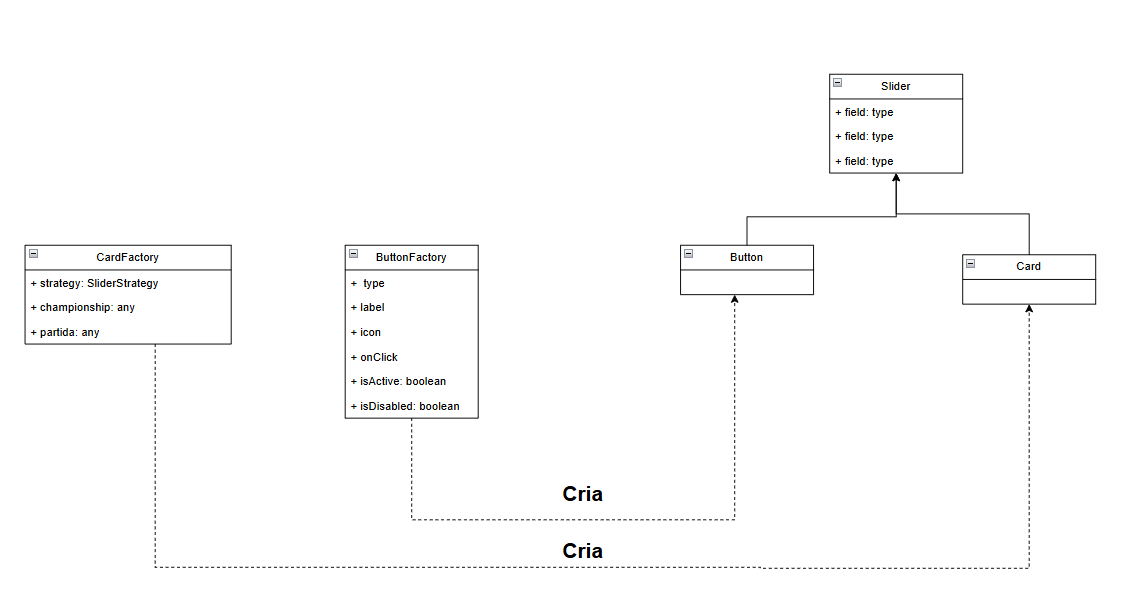
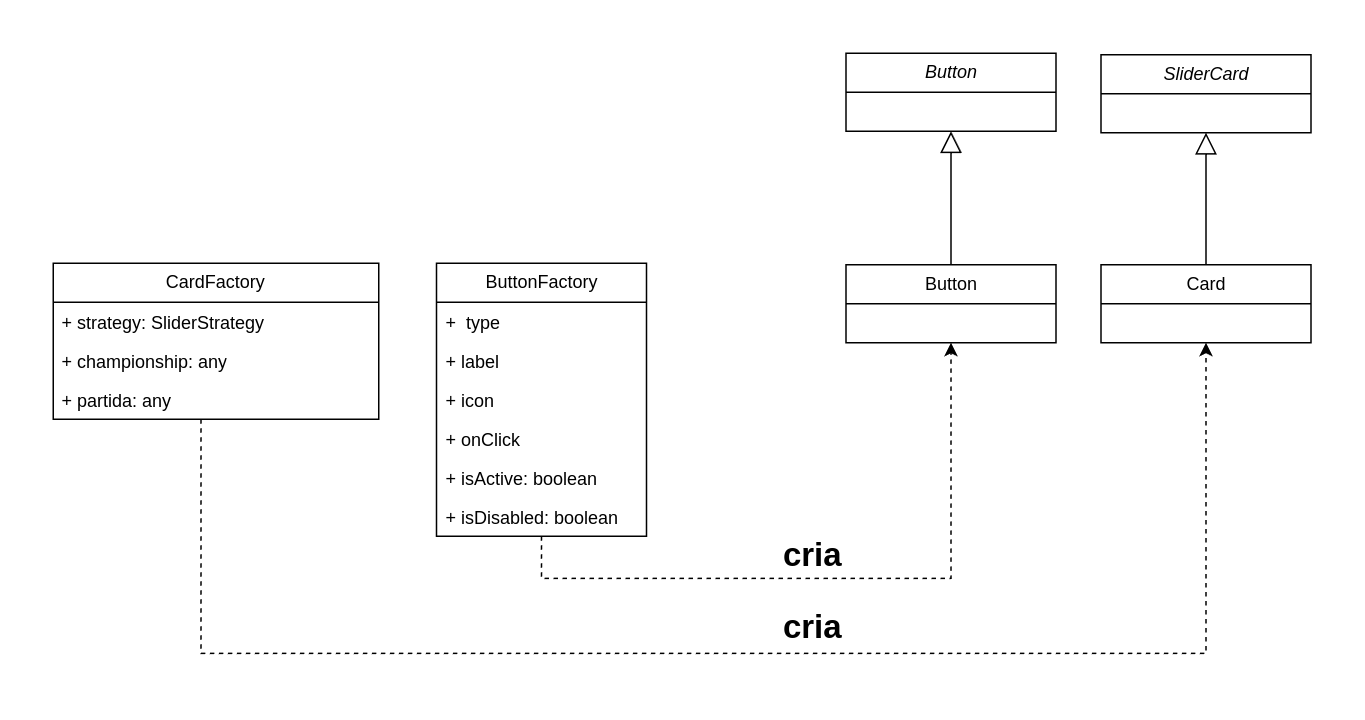
Docs(GoFs): Corrigindo diagrama e explicações implementações

diff --git a/docs/PadroesDeProjeto/3.4.ParticipacoesPadroes.md b/docs/PadroesDeProjeto/3.4.ParticipacoesPadroes.md
@@ -4,55 +4,58 @@ Breve relato sobre as participações/contribuições de cada membro à entrega.
 
 ## Padrão GoF Criacional
 
-| Nome | Descrição | Qualidade | Link |
-|-----|---|---|--|
-|Artur Jackson | Implementação do metódo Factory na aplicação, assim como documentação do metódo | Excelente | [Link-1](https://github.com/UnBArqDsw2024-2/2024.2_G4_TorneioPro_Entrega_03/commit/7ac8a4c7e4cfe569da0761486fe29971e128ca1d) [Link-2](https://github.com/UnBArqDsw2024-2/2024.2_G4_TorneioPro_Entrega_03/commit/90bb5dd010d2e9a2167dea328229f17e05eb4d66) [Link-3](https://github.com/UnBArqDsw2024-2/2024.2_G4_TorneioPro_Entrega_03/commit/dc871436714579992acc0452cb619cc99b5fdf15)|
-|Gustavo França | Implementação do metódo Factory na aplicação, assim como documentação do metódo  | Excelente | [Link](https://github.com/UnBArqDsw2024-2/2024.2_G4_TorneioPro_Entrega_03/commit/7ac8a4c7e4cfe569da0761486fe29971e128ca1d)|
-|Harryson C Martins | Implementação do metódo Factory na aplicação, assim como documentação do metódo | Boa | [Link](https://github.com/UnBArqDsw2024-2/2024.2_G4_TorneioPro_Entrega_03/commit/7ac8a4c7e4cfe569da0761486fe29971e128ca1d)|
-|Yan Werlley | Implementação do metódo Factory na aplicação, assim como documentação do metódo | Excelente | [Link-1](https://github.com/UnBArqDsw2024-2/2024.2_G4_TorneioPro_Entrega_03/commit/7ac8a4c7e4cfe569da0761486fe29971e128ca1d) | [Link-2](https://github.com/UnBArqDsw2024-2/2024.2_G4_TorneioPro_Entrega_03/commit/dc871436714579992acc0452cb619cc99b5fdf15)|
-|Yan Luca| Implementação do metódo Factory na aplicação, assim como documentação do metódo | Boa | [Link](https://github.com/UnBArqDsw2024-2/2024.2_G4_TorneioPro_Entrega_03/commit/7ac8a4c7e4cfe569da0761486fe29971e128ca1d)|
-|Italo Bruno |Participação do diagrama factory e builder e suas implementações | Boa |[Link](https://github.com/UnBArqDsw2024-2/2024.2_G4_TorneioPro_Entrega_03/commit/a00482d82c55d09a24fd365d7ba532c026a5ee59) [Link](https://github.com/UnBArqDsw2024-2/2024.2_G4_TorneioPro_Entrega_03/commit/94d6500e474030b9b20da1c6cc313cf7167437df) [Link](https://github.com/UnBArqDsw2024-2/2024.2_G4_TorneioPro_Entrega_03/commit/0bfa61f6ea300d068c1acbabd2c41c8d3e96d945) [Link](https://github.com/UnBArqDsw2024-2/2024.2_G4_TorneioPro_Entrega_03/commit/cb41a2802ccc53e98fa6bafcf9963236d3b550b5) |
-|Christian |Participação do diagrama factory e implementação do Builder | Excelente | [Link](https://github.com/UnBArqDsw2024-2/2024.2_G4_TorneioPro_Entrega_03/pull/21/commits/9768041a82e62e59f89f84dd105481a4b9b9c18c), [Link](https://github.com/UnBArqDsw2024-2/2024.2_G4_TorneioPro_Entrega_03/pull/21/commits/94d6500e474030b9b20da1c6cc313cf7167437df), [Link](https://github.com/UnBArqDsw2024-2/2024.2_G4_TorneioPro_Entrega_03/pull/21/commits/a00482d82c55d09a24fd365d7ba532c026a5ee59) , [Link](https://github.com/UnBArqDsw2024-2/2024.2_G4_TorneioPro_Entrega_03/pull/18/commits/a507ad7d1a2de822f226bf8ae4b47b9439571ac6)|
-|Flávio Melo |Participação do diagrama factory e builder e suas implementações | Excelente |[Link](https://github.com/UnBArqDsw2024-2/2024.2_G4_TorneioPro_Entrega_03/commit/a00482d82c55d09a24fd365d7ba532c026a5ee59) [Link](https://github.com/UnBArqDsw2024-2/2024.2_G4_TorneioPro_Entrega_03/commit/94d6500e474030b9b20da1c6cc313cf7167437df) [Link](https://github.com/UnBArqDsw2024-2/2024.2_G4_TorneioPro_Entrega_03/commit/0bfa61f6ea300d068c1acbabd2c41c8d3e96d945) [Link](https://github.com/UnBArqDsw2024-2/2024.2_G4_TorneioPro_Entrega_03/pull/18/commits/a507ad7d1a2de822f226bf8ae4b47b9439571ac6) |
+| Nome               | Descrição                                                                       | Qualidade | Link                                                                                                                                                                                                                                                                                                                                                                                                                                                                                                                                                |
+|--------------------|---------------------------------------------------------------------------------|-----------|-----------------------------------------------------------------------------------------------------------------------------------------------------------------------------------------------------------------------------------------------------------------------------------------------------------------------------------------------------------------------------------------------------------------------------------------------------------------------------------------------------------------------------------------------------|
+| Artur Jackson      | Implementação do metódo Factory na aplicação, assim como documentação do metódo | Excelente | [Link-1](https://github.com/UnBArqDsw2024-2/2024.2_G4_TorneioPro_Entrega_03/commit/7ac8a4c7e4cfe569da0761486fe29971e128ca1d) [Link-2](https://github.com/UnBArqDsw2024-2/2024.2_G4_TorneioPro_Entrega_03/commit/90bb5dd010d2e9a2167dea328229f17e05eb4d66) [Link-3](https://github.com/UnBArqDsw2024-2/2024.2_G4_TorneioPro_Entrega_03/commit/dc871436714579992acc0452cb619cc99b5fdf15)                                                                                                                                                              |
+| Gustavo França     | Implementação do metódo Factory na aplicação, assim como documentação do metódo | Excelente | [Link](https://github.com/UnBArqDsw2024-2/2024.2_G4_TorneioPro_Entrega_03/commit/7ac8a4c7e4cfe569da0761486fe29971e128ca1d)                                                                                                                                                                                                                                                                                                                                                                                                                          |
+| Harryson C Martins | Implementação do metódo Factory na aplicação, assim como documentação do metódo | Boa       | [Link](https://github.com/UnBArqDsw2024-2/2024.2_G4_TorneioPro_Entrega_03/commit/7ac8a4c7e4cfe569da0761486fe29971e128ca1d)                                                                                                                                                                                                                                                                                                                                                                                                                          |
+| Yan Werlley        | Implementação do metódo Factory na aplicação, assim como documentação do metódo | Excelente | [Link-1](https://github.com/UnBArqDsw2024-2/2024.2_G4_TorneioPro_Entrega_03/commit/7ac8a4c7e4cfe569da0761486fe29971e128ca1d)                                                                                                                                                                                                                                                                                                                                                                                                                        | [Link-2](https://github.com/UnBArqDsw2024-2/2024.2_G4_TorneioPro_Entrega_03/commit/dc871436714579992acc0452cb619cc99b5fdf15)|
+| Yan Luca           | Implementação do metódo Factory na aplicação, assim como documentação do metódo | Boa       | [Link](https://github.com/UnBArqDsw2024-2/2024.2_G4_TorneioPro_Entrega_03/commit/7ac8a4c7e4cfe569da0761486fe29971e128ca1d)                                                                                                                                                                                                                                                                                                                                                                                                                          |
+| Italo Bruno        | Participação do diagrama factory e builder e suas implementações                | Excelente | [Link](https://github.com/UnBArqDsw2024-2/2024.2_G4_TorneioPro_Entrega_03/commit/a00482d82c55d09a24fd365d7ba532c026a5ee59) [Link](https://github.com/UnBArqDsw2024-2/2024.2_G4_TorneioPro_Entrega_03/commit/94d6500e474030b9b20da1c6cc313cf7167437df) [Link](https://github.com/UnBArqDsw2024-2/2024.2_G4_TorneioPro_Entrega_03/commit/0bfa61f6ea300d068c1acbabd2c41c8d3e96d945) [Link](https://github.com/UnBArqDsw2024-2/2024.2_G4_TorneioPro_Entrega_03/commit/cb41a2802ccc53e98fa6bafcf9963236d3b550b5)                                         |
+| Christian          | Participação do diagrama factory e implementação do Builder                     | Excelente | [Link](https://github.com/UnBArqDsw2024-2/2024.2_G4_TorneioPro_Entrega_03/pull/21/commits/9768041a82e62e59f89f84dd105481a4b9b9c18c), [Link](https://github.com/UnBArqDsw2024-2/2024.2_G4_TorneioPro_Entrega_03/pull/21/commits/94d6500e474030b9b20da1c6cc313cf7167437df), [Link](https://github.com/UnBArqDsw2024-2/2024.2_G4_TorneioPro_Entrega_03/pull/21/commits/a00482d82c55d09a24fd365d7ba532c026a5ee59) , [Link](https://github.com/UnBArqDsw2024-2/2024.2_G4_TorneioPro_Entrega_03/pull/18/commits/a507ad7d1a2de822f226bf8ae4b47b9439571ac6) |
+| Flávio Melo        | Participação do diagrama factory e builder e suas implementações                | Excelente | [Link](https://github.com/UnBArqDsw2024-2/2024.2_G4_TorneioPro_Entrega_03/commit/a00482d82c55d09a24fd365d7ba532c026a5ee59) [Link](https://github.com/UnBArqDsw2024-2/2024.2_G4_TorneioPro_Entrega_03/commit/94d6500e474030b9b20da1c6cc313cf7167437df) [Link](https://github.com/UnBArqDsw2024-2/2024.2_G4_TorneioPro_Entrega_03/commit/0bfa61f6ea300d068c1acbabd2c41c8d3e96d945) [Link](https://github.com/UnBArqDsw2024-2/2024.2_G4_TorneioPro_Entrega_03/pull/18/commits/a507ad7d1a2de822f226bf8ae4b47b9439571ac6)                                |
+| Fabrício           | Participação no diagrama Factory Method do Frontend, e sua implementação        | Excelente | [Link-1](https://github.com/UnBArqDsw2024-2/2024.2_G4_TorneioPro_Entrega_03/pull/21/commits/94d6500e474030b9b20da1c6cc313cf7167437df), [Link-2](https://github.com/UnBArqDsw2024-2/2024.2_G4_TorneioPro_Entrega_03/pull/21/commits/9768041a82e62e59f89f84dd105481a4b9b9c18c), [Link-3](https://github.com/UnBArqDsw2024-2/2024.2_G4_TorneioPro_Entrega_03/pull/1), [Link-4](https://github.com/UnBArqDsw2024-2/2024.2_G4_TorneioPro_Entrega_03/commits/Dev-Front/?author=FabricioDeQueiroz)                                                         |
 
 
 
 
 ## Padrão GoF Estrutural
 
-| Nome | Descrição | Qualidade | Link |
-|------|-----------|-----------|------|
-|Artur Jackson | Implementação do metódo Factory na aplicação, assim como documentação do metódo | Excelente | [Link-1](https://github.com/UnBArqDsw2024-2/2024.2_G4_TorneioPro_Entrega_03/commit/f481bd05ca8aee207c65cc134dc6762dd6763188) [Link-2](https://github.com/UnBArqDsw2024-2/2024.2_G4_TorneioPro_Entrega_03/commit/4f9d8c44e47f7e9e5015f624809c1e8b988d3e3d) [Link-3](https://github.com/UnBArqDsw2024-2/2024.2_G4_TorneioPro_Entrega_03/commit/f078ef66eda9f7edd89bd869382e400d151ad30d)|
-|Gustavo França | Implementação do metódo Facade na aplicação, assim como documentação do metódo  | Excelente | [Link](https://github.com/UnBArqDsw2024-2/2024.2_G4_TorneioPro_Entrega_03/commit/f481bd05ca8aee207c65cc134dc6762dd6763188)|
-|Harryson C Martins | Implementação do metódo Facade na aplicação, assim como documentação do metódo | Boa | [Link](https://github.com/UnBArqDsw2024-2/2024.2_G4_TorneioPro_Entrega_03/commit/f481bd05ca8aee207c65cc134dc6762dd6763188)|
-|Yan Werlley | Implementação do metódo Facade na aplicação e na criação do seu diagrama de classe | Excelente | [Link-1](https://github.com/UnBArqDsw2024-2/2024.2_G4_TorneioPro_Entrega_03/commit/f481bd05ca8aee207c65cc134dc6762dd6763188) | [Link-2](https://github.com/UnBArqDsw2024-2/2024.2_G4_TorneioPro_Entrega_03/commit/f078ef66eda9f7edd89bd869382e400d151ad30d)|
-|Yan Luca| Implementação do metódo Facade na aplicação, assim como documentação do metódo | Boa | [Link](https://github.com/UnBArqDsw2024-2/2024.2_G4_TorneioPro_Entrega_03/commit/f481bd05ca8aee207c65cc134dc6762dd6763188)|
-|Italo Bruno |Participação do diagrama adapter e sua implementação | Boa |[Link](https://github.com/UnBArqDsw2024-2/2024.2_G4_TorneioPro_Entrega_03/commit/a00482d82c55d09a24fd365d7ba532c026a5ee59) [Link](https://github.com/UnBArqDsw2024-2/2024.2_G4_TorneioPro_Entrega_03/commit/94d6500e474030b9b20da1c6cc313cf7167437df) |
-|Christian |Participação do diagrama adapter  | Excelente | [Link](https://github.com/UnBArqDsw2024-2/2024.2_G4_TorneioPro_Entrega_03/pull/21/commits/9768041a82e62e59f89f84dd105481a4b9b9c18c), [Link](https://github.com/UnBArqDsw2024-2/2024.2_G4_TorneioPro_Entrega_03/pull/21/commits/94d6500e474030b9b20da1c6cc313cf7167437df), [Link](https://github.com/UnBArqDsw2024-2/2024.2_G4_TorneioPro_Entrega_03/pull/21/commits/a00482d82c55d09a24fd365d7ba532c026a5ee59) |
-|Flávio Melo |Participação do diagrama adapter e sua implementação | Excelente |[Link](https://github.com/UnBArqDsw2024-2/2024.2_G4_TorneioPro_Entrega_03/pull/21/commits/9768041a82e62e59f89f84dd105481a4b9b9c18c), [Link](https://github.com/UnBArqDsw2024-2/2024.2_G4_TorneioPro_Entrega_03/pull/21/commits/94d6500e474030b9b20da1c6cc313cf7167437df), [Link](https://github.com/UnBArqDsw2024-2/2024.2_G4_TorneioPro_Entrega_03/pull/21/commits/a00482d82c55d09a24fd365d7ba532c026a5ee59) |
+| Nome | Descrição                                                                          | Qualidade | Link                                                                                                                                                                                                                                                                                                                                                                                                                                                                                                                                                                                                                              |
+|------|------------------------------------------------------------------------------------|-----------|-----------------------------------------------------------------------------------------------------------------------------------------------------------------------------------------------------------------------------------------------------------------------------------------------------------------------------------------------------------------------------------------------------------------------------------------------------------------------------------------------------------------------------------------------------------------------------------------------------------------------------------|
+|Artur Jackson | Implementação do metódo Factory na aplicação, assim como documentação do metódo    | Excelente | [Link-1](https://github.com/UnBArqDsw2024-2/2024.2_G4_TorneioPro_Entrega_03/commit/f481bd05ca8aee207c65cc134dc6762dd6763188) [Link-2](https://github.com/UnBArqDsw2024-2/2024.2_G4_TorneioPro_Entrega_03/commit/4f9d8c44e47f7e9e5015f624809c1e8b988d3e3d) [Link-3](https://github.com/UnBArqDsw2024-2/2024.2_G4_TorneioPro_Entrega_03/commit/f078ef66eda9f7edd89bd869382e400d151ad30d)                                                                                                                                                                                                                                            |
+|Gustavo França | Implementação do metódo Facade na aplicação, assim como documentação do metódo     | Excelente | [Link](https://github.com/UnBArqDsw2024-2/2024.2_G4_TorneioPro_Entrega_03/commit/f481bd05ca8aee207c65cc134dc6762dd6763188)                                                                                                                                                                                                                                                                                                                                                                                                                                                                                                        |
+|Harryson C Martins | Implementação do metódo Facade na aplicação, assim como documentação do metódo     | Boa | [Link](https://github.com/UnBArqDsw2024-2/2024.2_G4_TorneioPro_Entrega_03/commit/f481bd05ca8aee207c65cc134dc6762dd6763188)                                                                                                                                                                                                                                                                                                                                                                                                                                                                                                        |
+|Yan Werlley | Implementação do metódo Facade na aplicação e na criação do seu diagrama de classe | Excelente | [Link-1](https://github.com/UnBArqDsw2024-2/2024.2_G4_TorneioPro_Entrega_03/commit/f481bd05ca8aee207c65cc134dc6762dd6763188)                                                                                                                                                                                                                                                                                                                                                                                                                                                                                                      | [Link-2](https://github.com/UnBArqDsw2024-2/2024.2_G4_TorneioPro_Entrega_03/commit/f078ef66eda9f7edd89bd869382e400d151ad30d)|
+|Yan Luca| Implementação do metódo Facade na aplicação, assim como documentação do metódo     | Boa | [Link](https://github.com/UnBArqDsw2024-2/2024.2_G4_TorneioPro_Entrega_03/commit/f481bd05ca8aee207c65cc134dc6762dd6763188)                                                                                                                                                                                                                                                                                                                                                                                                                                                                                                        |
+|Italo Bruno | Participação do diagrama adapter e sua implementação                               | Excelente | [Link](https://github.com/UnBArqDsw2024-2/2024.2_G4_TorneioPro_Entrega_03/commit/a00482d82c55d09a24fd365d7ba532c026a5ee59) [Link](https://github.com/UnBArqDsw2024-2/2024.2_G4_TorneioPro_Entrega_03/commit/94d6500e474030b9b20da1c6cc313cf7167437df)                                                                                                                                                                                                                                                                                                                                                                             |
+|Christian | Participação do diagrama adapter                                                   | Excelente | [Link](https://github.com/UnBArqDsw2024-2/2024.2_G4_TorneioPro_Entrega_03/pull/21/commits/9768041a82e62e59f89f84dd105481a4b9b9c18c), [Link](https://github.com/UnBArqDsw2024-2/2024.2_G4_TorneioPro_Entrega_03/pull/21/commits/94d6500e474030b9b20da1c6cc313cf7167437df), [Link](https://github.com/UnBArqDsw2024-2/2024.2_G4_TorneioPro_Entrega_03/pull/21/commits/a00482d82c55d09a24fd365d7ba532c026a5ee59)                                                                                                                                                                                                                     |
+|Flávio Melo | Participação do diagrama adapter e sua implementação                               | Excelente | [Link](https://github.com/UnBArqDsw2024-2/2024.2_G4_TorneioPro_Entrega_03/pull/21/commits/9768041a82e62e59f89f84dd105481a4b9b9c18c), [Link](https://github.com/UnBArqDsw2024-2/2024.2_G4_TorneioPro_Entrega_03/pull/21/commits/94d6500e474030b9b20da1c6cc313cf7167437df), [Link](https://github.com/UnBArqDsw2024-2/2024.2_G4_TorneioPro_Entrega_03/pull/21/commits/a00482d82c55d09a24fd365d7ba532c026a5ee59)                                                                                                                                                                                                                     |
+| Fabrício           | Participação no diagrama Adapter do Frontend, e sua implementação                   | Excelente | [Link-1](https://github.com/UnBArqDsw2024-2/2024.2_G4_TorneioPro_Entrega_03/pull/21/commits/94d6500e474030b9b20da1c6cc313cf7167437df), [Link-2](https://github.com/UnBArqDsw2024-2/2024.2_G4_TorneioPro_Entrega_03/pull/21/commits/9768041a82e62e59f89f84dd105481a4b9b9c18c), [Link-3](https://github.com/UnBArqDsw2024-2/2024.2_G4_TorneioPro_Entrega_03/pull/1), [Link-4](https://github.com/UnBArqDsw2024-2/2024.2_G4_TorneioPro_Entrega_03/pull/20/commits/f995e2e4497ee77c5fad5dd6c87880d93591cfcf) [Link-5](https://github.com/UnBArqDsw2024-2/2024.2_G4_TorneioPro_Entrega_03/commits/Dev-Front/?author=FabricioDeQueiroz) |
 
 
 
 ## Padrão GoF Comportamental
 
-| Nome | Descrição | Qualidade | Link |
-|------|-----------|-----------|------|
-|Artur Jackson | Implementação do metódo Factory na aplicação, assim como documentação do metódo | Excelente | [Link-1](https://github.com/UnBArqDsw2024-2/2024.2_G4_TorneioPro_Entrega_03/commit/580542017ef5d71b58ae23ed38395ddb6bdeefd9) [Link-2](https://github.com/UnBArqDsw2024-2/2024.2_G4_TorneioPro_Entrega_03/commit/f9d846194837cfc3b38dc56281da173ac955470c) [Link-3](https://github.com/UnBArqDsw2024-2/2024.2_G4_TorneioPro_Entrega_03/commit/f9d846194837cfc3b38dc56281da173ac955470c)|
-|Gustavo França | Implementação do metódo Strategy na aplicação, assim como documentação do metódo  | Excelente | [Link](https://github.com/UnBArqDsw2024-2/2024.2_G4_TorneioPro_Entrega_03/commit/580542017ef5d71b58ae23ed38395ddb6bdeefd9)|
-|Harryson C Martins | Implementação do metódo Strategy na aplicação, assim como documentação do metódo | Boa | [Link](https://github.com/UnBArqDsw2024-2/2024.2_G4_TorneioPro_Entrega_03/commit/580542017ef5d71b58ae23ed38395ddb6bdeefd9)|
+| Nome | Descrição                                                                            | Qualidade | Link |
+|------|--------------------------------------------------------------------------------------|-----------|------|
+|Artur Jackson | Implementação do metódo Factory na aplicação, assim como documentação do metódo      | Excelente | [Link-1](https://github.com/UnBArqDsw2024-2/2024.2_G4_TorneioPro_Entrega_03/commit/580542017ef5d71b58ae23ed38395ddb6bdeefd9) [Link-2](https://github.com/UnBArqDsw2024-2/2024.2_G4_TorneioPro_Entrega_03/commit/f9d846194837cfc3b38dc56281da173ac955470c) [Link-3](https://github.com/UnBArqDsw2024-2/2024.2_G4_TorneioPro_Entrega_03/commit/f9d846194837cfc3b38dc56281da173ac955470c)|
+|Gustavo França | Implementação do metódo Strategy na aplicação, assim como documentação do metódo     | Excelente | [Link](https://github.com/UnBArqDsw2024-2/2024.2_G4_TorneioPro_Entrega_03/commit/580542017ef5d71b58ae23ed38395ddb6bdeefd9)|
+|Harryson C Martins | Implementação do metódo Strategy na aplicação, assim como documentação do metódo     | Boa | [Link](https://github.com/UnBArqDsw2024-2/2024.2_G4_TorneioPro_Entrega_03/commit/580542017ef5d71b58ae23ed38395ddb6bdeefd9)|
 |Yan Werlley | Implementação do metódo Strategy na aplicação e na criação do seu diagrama de classe | Excelente | [Link-1](https://github.com/UnBArqDsw2024-2/2024.2_G4_TorneioPro_Entrega_03/commit/580542017ef5d71b58ae23ed38395ddb6bdeefd9) | [Link-2](https://github.com/UnBArqDsw2024-2/2024.2_G4_TorneioPro_Entrega_03/commit/f9d846194837cfc3b38dc56281da173ac955470c)|
-|Yan Luca| Implementação do metódo Strategy na aplicação, assim como documentação do metódo | Boa | [Link](https://github.com/UnBArqDsw2024-2/2024.2_G4_TorneioPro_Entrega_03/commit/580542017ef5d71b58ae23ed38395ddb6bdeefd9)|
-|Italo Bruno |Participação do diagrama strategy e sua implementação | Boa |[Link](https://github.com/UnBArqDsw2024-2/2024.2_G4_TorneioPro_Entrega_03/commit/a00482d82c55d09a24fd365d7ba532c026a5ee59) [Link](https://github.com/UnBArqDsw2024-2/2024.2_G4_TorneioPro_Entrega_03/commit/94d6500e474030b9b20da1c6cc313cf7167437df) [Link](https://github.com/UnBArqDsw2024-2/2024.2_G4_TorneioPro_Entrega_03/pull/22/commits/fda42a925a4baca915a5d18169b6fbc6c7da78a8) |
-|Christian |Participação do diagrama Strategy e componentes  | Boa |[Link](https://github.com/UnBArqDsw2024-2/2024.2_G4_TorneioPro_Entrega_03/pull/21) [Link](https://github.com/UnBArqDsw2024-2/2024.2_G4_TorneioPro_Entrega_03/pull/2/commits/a5277c481d9c8acc53801bbdb97a769ee8a821aa), [Link](https://github.com/UnBArqDsw2024-2/2024.2_G4_TorneioPro_Entrega_03/pull/20/commits/f995e2e4497ee77c5fad5dd6c87880d93591cfcf) [Link](https://github.com/UnBArqDsw2024-2/2024.2_G4_TorneioPro_Entrega_03/pull/22/commits/fda42a925a4baca915a5d18169b6fbc6c7da78a8) |
-|Flávio Melo |Participação do diagrama Strategy e componentes  | Boa |[Link](https://github.com/UnBArqDsw2024-2/2024.2_G4_TorneioPro_Entrega_03/pull/21) [Link](https://github.com/UnBArqDsw2024-2/2024.2_G4_TorneioPro_Entrega_03/pull/2/commits/a5277c481d9c8acc53801bbdb97a769ee8a821aa), [Link](https://github.com/UnBArqDsw2024-2/2024.2_G4_TorneioPro_Entrega_03/pull/20/commits/f995e2e4497ee77c5fad5dd6c87880d93591cfcf) [Link](https://github.com/UnBArqDsw2024-2/2024.2_G4_TorneioPro_Entrega_03/pull/22/commits/fda42a925a4baca915a5d18169b6fbc6c7da78a8) |
-
+|Yan Luca| Implementação do metódo Strategy na aplicação, assim como documentação do metódo     | Boa | [Link](https://github.com/UnBArqDsw2024-2/2024.2_G4_TorneioPro_Entrega_03/commit/580542017ef5d71b58ae23ed38395ddb6bdeefd9)|
+|Italo Bruno | Participação do diagrama strategy e sua implementação                                | Excelente |[Link](https://github.com/UnBArqDsw2024-2/2024.2_G4_TorneioPro_Entrega_03/commit/a00482d82c55d09a24fd365d7ba532c026a5ee59) [Link](https://github.com/UnBArqDsw2024-2/2024.2_G4_TorneioPro_Entrega_03/commit/94d6500e474030b9b20da1c6cc313cf7167437df) [Link](https://github.com/UnBArqDsw2024-2/2024.2_G4_TorneioPro_Entrega_03/pull/22/commits/fda42a925a4baca915a5d18169b6fbc6c7da78a8) |
+|Christian | Participação do diagrama Strategy e componentes                                      | Boa |[Link](https://github.com/UnBArqDsw2024-2/2024.2_G4_TorneioPro_Entrega_03/pull/21) [Link](https://github.com/UnBArqDsw2024-2/2024.2_G4_TorneioPro_Entrega_03/pull/2/commits/a5277c481d9c8acc53801bbdb97a769ee8a821aa), [Link](https://github.com/UnBArqDsw2024-2/2024.2_G4_TorneioPro_Entrega_03/pull/20/commits/f995e2e4497ee77c5fad5dd6c87880d93591cfcf) [Link](https://github.com/UnBArqDsw2024-2/2024.2_G4_TorneioPro_Entrega_03/pull/22/commits/fda42a925a4baca915a5d18169b6fbc6c7da78a8) |
+|Flávio Melo | Participação do diagrama Strategy e componentes                                      | Boa |[Link](https://github.com/UnBArqDsw2024-2/2024.2_G4_TorneioPro_Entrega_03/pull/21) [Link](https://github.com/UnBArqDsw2024-2/2024.2_G4_TorneioPro_Entrega_03/pull/2/commits/a5277c481d9c8acc53801bbdb97a769ee8a821aa), [Link](https://github.com/UnBArqDsw2024-2/2024.2_G4_TorneioPro_Entrega_03/pull/20/commits/f995e2e4497ee77c5fad5dd6c87880d93591cfcf) [Link](https://github.com/UnBArqDsw2024-2/2024.2_G4_TorneioPro_Entrega_03/pull/22/commits/fda42a925a4baca915a5d18169b6fbc6c7da78a8) |
+| Fabrício           | Participação no diagrama Strategy do Frontend, e sua implementação                   | Excelente | [Link-1](https://github.com/UnBArqDsw2024-2/2024.2_G4_TorneioPro_Entrega_03/pull/21/commits/94d6500e474030b9b20da1c6cc313cf7167437df), [Link-2](https://github.com/UnBArqDsw2024-2/2024.2_G4_TorneioPro_Entrega_03/pull/21/commits/9768041a82e62e59f89f84dd105481a4b9b9c18c), [Link-3](https://github.com/UnBArqDsw2024-2/2024.2_G4_TorneioPro_Entrega_03/pull/1), [Link-4](https://github.com/UnBArqDsw2024-2/2024.2_G4_TorneioPro_Entrega_03/pull/20/commits/f995e2e4497ee77c5fad5dd6c87880d93591cfcf) [Link-5](https://github.com/UnBArqDsw2024-2/2024.2_G4_TorneioPro_Entrega_03/commits/Dev-Front/?author=FabricioDeQueiroz) |
 
 
 
 ## Histórico de Versão
 
-|Versão|Data|Descrição|Autor|Revisor| Detalhes da revisão |
-|:----:|----|---------|-----|:-------:|-----| 
-| 1.0 | 05/01/2024 | Criação do arquivo |  [Harryson](https://github.com/harry-cmartin)  |  | |
-| 1.1 | 05/01/2024 | Adição da implementação |  [Harryson](https://github.com/harry-cmartin) |  | |
-| 1.2 | 05/01/2024 | Adição da contribuição |  [Flávio Melo](https://github.com/flavioovatsug) |  | |
+| Versão |Data| Descrição                   |Autor|Revisor| Detalhes da revisão |
+|:------:|----|-----------------------------|-----|:-------:|-----| 
+|  1.0   | 05/01/2024 | Criação do arquivo          |  [Harryson](https://github.com/harry-cmartin)  |  | |
+|  1.1   | 05/01/2024 | Adição da implementação     |  [Harryson](https://github.com/harry-cmartin) |  | |
+|  1.2   | 05/01/2024 | Adição da contribuição      |  [Flávio Melo](https://github.com/flavioovatsug) |  | |
+|  1.3   | 05/01/2024 | Atualização da Contribuição | [FabricioDeQueiroz](https://github.com/FabricioDeQueiroz) |  | |

diff --git a/docs/PadroesDeProjeto/3.3.GoFsComportamentais.md b/docs/PadroesDeProjeto/3.3.GoFsComportamentais.md
@@ -55,10 +55,60 @@ export enum SliderStrategy {
             </ul>
 ...
 ```
+<br>
 
-Neste segundo exemplo, o Strategy está sendo usado para definir e encapsular diferentes estratégias de validação e preparação de dados para o envio do formulário de criação de campeonatos.
+### Utilização do Horizontal Slider com Strategy
 
 ```typescript
+return (
+    <div className="min-h-screen bg-gray-100 dark:bg-gray-900 mt-32 mb-10 flex flex-col gap-y-10">
+        <HorizontalSlider
+            title={"Campeonatos em Equipe"}
+            championships={championships}
+            color={SliderColors.light}
+            strategy={SliderStrategy.default}
+        />
+        <HorizontalSlider
+            title={"Campeonatos Individuais"}
+            championships={championships}
+            color={SliderColors.light}
+            strategy={SliderStrategy.bracket}
+        />
+        <HorizontalSlider
+            title={"Campeonatos Futuros"}
+            championships={championships}
+            color={SliderColors.dark}
+            strategy={SliderStrategy.future}
+        />
+    </div>
+);
+```
+
+A aplicação do _Strategy_ permitiu que utilizássemos o mesmo Componente (HorizontalSlider), para criar três Componentes diferentes, sendo eles o Slider de Campeonatos em Equipe, Campeonatos Individuais e Campeonatos Futuros. Promovendo uma melhor organização e reutilização de código, e consequentemente, da manutenibilidade.
+
+<br>
+
+### Diagrama Back-End
+<center>
+
+<font size="2"><p style="text-align: center">Figura 1: strategy </p></font>
+
+![Strategy](../Assets/StrategyBACKEND.png)
+
+
+<font size="2"><p style="text-align: center">Autores: [Yan Werlley](https://github.com/YanWerlley), [Gustavo França](https://github.com/gustavofbs),  [Harry](https://github.com/harry-cmartin) </p></font>
+
+<br>
+
+
+</center>
+
+
+### Implementação Back-End
+
+Neste exemplo, o Strategy está sendo usado para definir e encapsular diferentes estratégias de validação e preparação de dados para o envio do formulário de criação de campeonatos.
+
+```python
 // Strategy Interface
 interface ChampionshipStrategy {
   validateForm: (data: FormData) => { isValid: boolean; errors?: string[] };
@@ -138,27 +188,9 @@ const AdvancedChampionshipStrategy: ChampionshipStrategy = {
 ...
 ```
 
-### Diagrama Back-End
-<center>
+### Arquivo Strategies.py
 
-<font size="2"><p style="text-align: center">Figura 1: strategy </p></font>
-
-![Strategy](../Assets/StrategyBACKEND.PNG)
-
-
-<font size="2"><p style="text-align: center">Autores: [Yan Werlley](https://github.com/YanWerlley), [Gustavo França](https://github.com/gustavofbs),  [Harry](https://github.com/harry-cmartin) </p></font>
-
-<br>
-
-
-</center>
-
-
-### Implementação Back-End
-
-# Arquivo Strategies.py
-
-```typescript
+```python
 ...
 from abc import ABC, abstractmethod
 from datetime import timedelta
@@ -223,9 +255,9 @@ class PointsMatchStrategy(MatchGenerationStrategy):
 ...
 ```
 
-# Arquivo models.py
+### Arquivo models.py
 
-```typescript
+```python
 ...
 
     def generate_matches(self):
@@ -249,11 +281,6 @@ class PointsMatchStrategy(MatchGenerationStrategy):
 ...
 ```
 
-## Bibliografia
-
-> 1. 
-> 2. 
-> 3. 
 
 ## Histórico de Versão
 
@@ -263,6 +290,4 @@ class PointsMatchStrategy(MatchGenerationStrategy):
 | 1.1 | 05/01/2024 | Adição da implementação |  [Christian](https://github.com/crstyhs) |  | |
 | 1.2 | 05/01/2024 | Adição de imagens |[Christian](https://github.com/crstyhs)  |  | |
 | 1.3 | 05/01/2024 | Adição Strategy BackEnd |[Yan Werlley](https://github.com/YanWerlley)  |  | |
-
-
-
+|  1.4   | 05/01/2024 | Adição Explicação Strategy Frontend | [FabricioDeQueiroz](https://github.com/FabricioDeQueiroz) |  | |

diff --git a/docs/PadroesDeProjeto/3.2.GoFsEstruturais.md b/docs/PadroesDeProjeto/3.2.GoFsEstruturais.md
@@ -264,6 +264,8 @@ export class TailwindThemeAdapter {
 }
 ```
 
+A utilização do _Adapter_ forneceu uma forma provisória de implementar uma funcionalidade de troca de temas no Frontend (para _Dark_ e _Light_) de uma forma fácil de ser integrada.
+
 ## Facade
 
 ### Uso
@@ -370,4 +372,4 @@ class ChampionshipViewSet(viewsets.ModelViewSet):
 | 1.2 | 05/01/2024 | Adição da implementação Facade |  [Artur Jackson](https://github.com/artur-jack), [Ian Lucca](https://github.com/IanLucca12 ) e [Gabriel Esteves](https://github.com/GabrielMEsteves)|  | |
 | 1.3 | 05/01/2024 | Adição de imagens |[Christian](https://github.com/crstyhs)  |  | |
 | 1.4 | 05/01/2024 | Adição do Facade BackEnd |  [Yan Werlley](https://github.com/YanWerlley) |  | |
-
+|  1.5   | 05/01/2024 | Adição Explicação Adapter Frontend | [FabricioDeQueiroz](https://github.com/FabricioDeQueiroz) |  | |

diff --git a/docs/PadroesDeProjeto/3.1.GoFsCriacionais.md b/docs/PadroesDeProjeto/3.1.GoFsCriacionais.md
@@ -138,6 +138,8 @@ const ButtonFactory: React.FC<ButtonProps> = ({
 
 ```
 
+A utilização do _Factory Method_ facilitou a criação dos Cards do Horizontal Slider e dos Botões da NavBar, de forma que permitisse uma maior facilidade na implementação do _Strategy_ também.
+
 ### Diagrama Factory Method Back-end
 
 <center>
@@ -318,3 +320,4 @@ export class PlayerBuilder {
 | 1.2 | 05/01/2024 | Adição da implementação do back-end |  [Gabriel](https://github.com/GabrielMEsteves) |  | |
 | 1.3 | 05/01/2024 | Adição do Builder Method |  [Italo Bruno](https://github.com/ItaloBrunoM) |  | |
 | 1.4 | 05/01/2024 | Adição do Factory BackEnd |  [Yan Werlley](https://github.com/YanWerlley) |  | |
+|  1.5   | 05/01/2024 | Adição Explicação Factory Method Frontend e atualização do Diagrama | [FabricioDeQueiroz](https://github.com/FabricioDeQueiroz) |  | |
